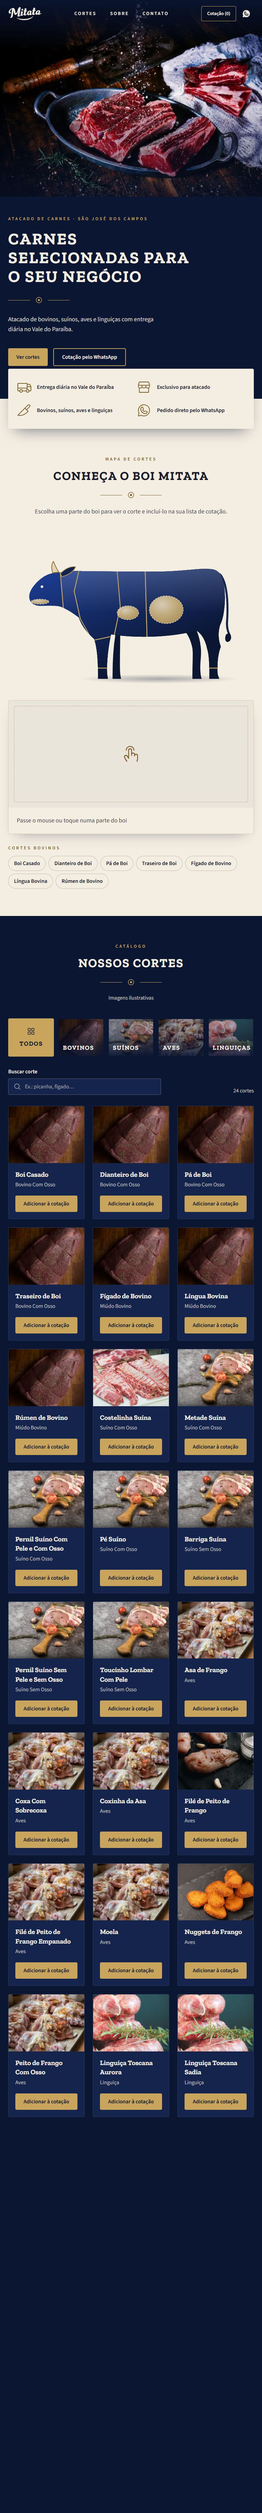
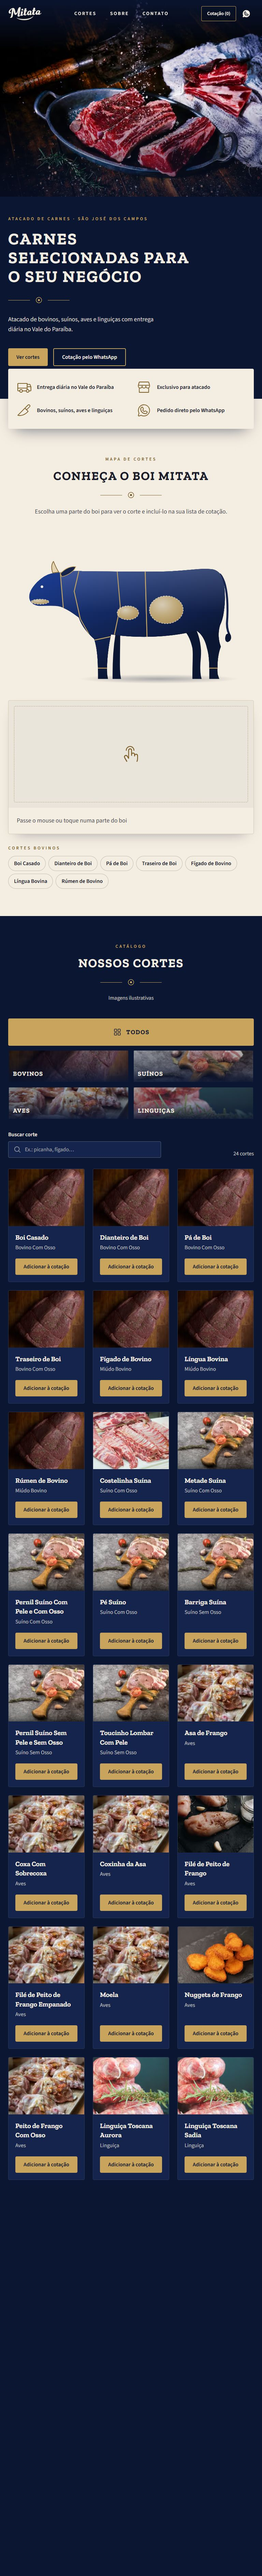
Catálogo: rótulo das categorias, foco da busca e teste sem JS

diff --git a/src/components/secoes/catalogo/CatalogoInterativo.tsx b/src/components/secoes/catalogo/CatalogoInterativo.tsx
@@ -1,7 +1,7 @@
 'use client';
 
 import { MagnifyingGlass, SquaresFour } from '@phosphor-icons/react/dist/ssr';
-import { useMemo, useState } from 'react';
+import { useMemo, useRef, useState } from 'react';
 import { Foto } from '@/components/ui/Foto';
 import { contagemCortes, home } from '@/content/home';
 import type { Foto as FotoRegistrada } from '@/data/fotos';
@@ -25,6 +25,7 @@ export function CatalogoInterativo({ itens, categorias }: CatalogoInterativoProp
   const { catalogo } = home;
   const [categoria, setCategoria] = useState<FiltroCategoria>('todos');
   const [termo, setTermo] = useState('');
+  const campoBusca = useRef<HTMLInputElement>(null);
 
   const visiveis = useMemo(() => {
     const slugs = new Set(
@@ -41,12 +42,12 @@ export function CatalogoInterativo({ itens, categorias }: CatalogoInterativoProp
 
   return (
     <div className="mt-12 lg:mt-14">
-      <div role="group" aria-label={catalogo.rotuloCategorias} className="grid grid-cols-2 gap-3 sm:grid-cols-5">
+      <div role="group" aria-label={catalogo.rotuloCategorias} className="grid grid-cols-2 gap-3 lg:grid-cols-5">
         <button
           type="button"
           aria-pressed={categoria === 'todos'}
           onClick={() => setCategoria('todos')}
-          className={`col-span-2 flex min-h-20 items-center justify-center gap-3 rounded-sm border-2 px-4 font-titulo text-lg font-bold uppercase tracking-[0.1em] transition-colors sm:col-span-1 sm:min-h-28 sm:flex-col sm:gap-2 ${focoDourado} ${
+          className={`col-span-2 flex min-h-20 items-center justify-center gap-3 rounded-sm border-2 px-4 font-titulo text-lg font-bold uppercase tracking-[0.1em] transition-colors lg:col-span-1 lg:min-h-28 lg:flex-col lg:gap-2 ${focoDourado} ${
             categoria === 'todos'
               ? 'border-dourado bg-dourado text-marinho'
               : 'border-creme/25 bg-marinho-superficie text-creme hover:border-dourado'
@@ -63,7 +64,7 @@ export function CatalogoInterativo({ itens, categorias }: CatalogoInterativoProp
               type="button"
               aria-pressed={ativa}
               onClick={() => setCategoria(cat.slug)}
-              className={`group relative isolate flex min-h-24 items-end overflow-hidden rounded-sm border-2 text-left transition-colors sm:min-h-28 ${focoDourado} ${
+              className={`group relative isolate flex min-h-24 items-end overflow-hidden rounded-sm border-2 text-left transition-colors lg:min-h-28 ${focoDourado} ${
                 ativa ? 'border-dourado' : 'border-transparent hover:border-dourado/70'
               }`}
             >
@@ -77,7 +78,7 @@ export function CatalogoInterativo({ itens, categorias }: CatalogoInterativoProp
                 aria-hidden="true"
                 className={`absolute inset-0 -z-10 bg-gradient-to-t from-marinho/90 via-marinho/45 ${ativa ? 'to-marinho/10' : 'to-marinho/30'}`}
               />
-              <span className="px-3 py-2.5 font-titulo text-lg font-bold uppercase tracking-[0.1em] text-creme">
+              <span className="px-3 py-2.5 font-titulo text-base font-bold uppercase tracking-[0.08em] text-creme min-[400px]:text-lg lg:text-base xl:text-lg">
                 {cat.nome}
               </span>
             </button>
@@ -100,6 +101,7 @@ export function CatalogoInterativo({ itens, categorias }: CatalogoInterativoProp
               id="busca-corte"
               type="search"
               value={termo}
+              ref={campoBusca}
               onChange={(e) => setTermo(e.target.value)}
               placeholder={catalogo.buscaPlaceholder}
               autoComplete="off"
@@ -127,7 +129,11 @@ export function CatalogoInterativo({ itens, categorias }: CatalogoInterativoProp
           </p>
           <button
             type="button"
-            onClick={() => setTermo('')}
+            onClick={() => {
+              setTermo('');
+              // O botão sai da tela ao limpar: o foco vai para o campo, não para o corpo da página.
+              campoBusca.current?.focus();
+            }}
             className={`inline-flex min-h-12 items-center rounded-sm border-2 border-dourado px-6 font-texto text-base font-semibold text-creme transition-colors hover:bg-dourado hover:text-marinho ${focoDourado}`}
           >
             {catalogo.limparBusca}

diff --git a/e2e/fluxos-base.spec.ts b/e2e/fluxos-base.spec.ts
@@ -46,7 +46,8 @@ test.describe('sem JavaScript', () => {
   test.use({ javaScriptEnabled: false });
 
   test('sem JavaScript o conteúdo aparece', async ({ page }) => {
-    await page.goto('/');
+    // Sem JS o Chrome ignora loading="lazy" e baixa todas as fotos antes do `load`; o teste só precisa do DOM.
+    await page.goto('/', { waitUntil: 'domcontentloaded' });
     const titulo = page.locator('h1');
     await expect(titulo).toBeVisible();
     await expect(titulo).toHaveCSS('opacity', '1');

diff --git a/e2e/fluxos-catalogo.spec.ts b/e2e/fluxos-catalogo.spec.ts
@@ -45,6 +45,7 @@ test('busca vazia', async ({ page }) => {
   await catalogo(page).getByRole('button', { name: 'Limpar busca' }).click();
   await expect(cards(page)).toHaveCount(24);
   await expect(campo).toHaveValue('');
+  await expect(campo).toBeFocused();
   await expect(catalogo(page).getByText('24 cortes', { exact: true })).toBeVisible();
 });
 
